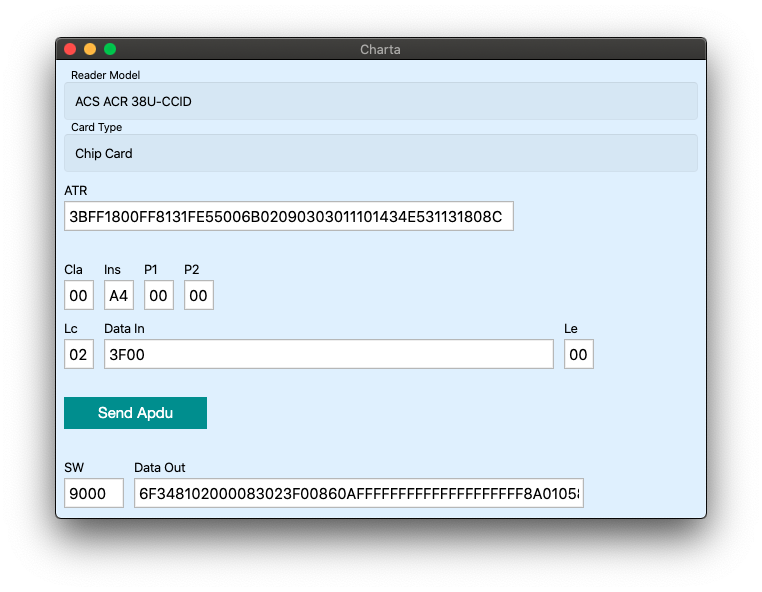
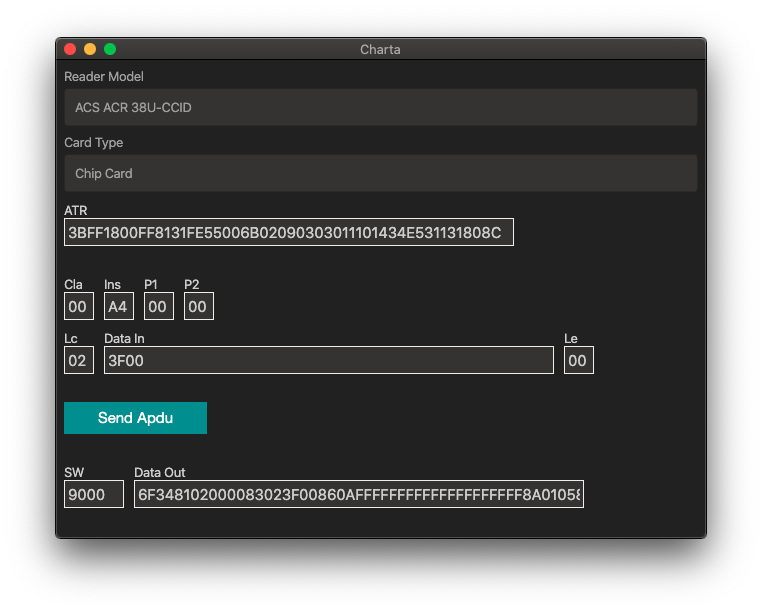
dark mode implemented :)

diff --git a/src/react-engine/chartaui/CustomTextField.tsx b/src/react-engine/chartaui/CustomTextField.tsx
@@ -1,12 +1,10 @@
 import CSS from "csstype";
 import React from "react";
-import { TextInput } from "react-desktop/macOs";
-
-const textFieldStyle: CSS.Properties = {
-    display: "inline-block",
-};
+import { Text, TextInput } from "react-desktop/macOs";
 
 interface ITextFieldProps {
+    background?: string;
+    color?: string;
     label: string;
     text?: string;
     charsLength: number;
@@ -18,26 +16,38 @@ interface ITextFieldProps {
 }
 
 export const CustomTextField: React.FC<ITextFieldProps> = (props: ITextFieldProps) => {
+
+    const divFieldStyle: CSS.Properties = {
+        display: "inline-block",
+    };
+
+    const textFieldStyle: CSS.Properties = {
+        background: props.background ? props.background : "#3b3a39",
+        border: "0px solid darkgray",
+        color: props.color ? props.color : "lightgray",
+        display: "inline-block",
+    };
+
     return (
-        <div style={textFieldStyle}>
-            <TextInput
+            <div style={divFieldStyle}>
+                <Text color={props.color ? props.color : "lightgray"} marginTop="10px">{props.label}</Text>
+                <TextInput
+                style={textFieldStyle}
                 width={props.charsLength * 15}
                 size="15"
                 maxLength={props.maxLength === undefined ? 2 : props.maxLength}
-                label={props.label}
+                // label={props.label}
                 // rounded="5"
                 // placeholder="My Input"
                 value={props.text !== undefined ? props.text : ""}
                 // onChange={this.handleChange}
                 marginLeft="0"
-                marginTop="10"
                 marginRight="10"
                 onChange={props.onChangeEvent}
                 name={props.fieldName}
                 readOnly={props.readOnly === undefined ? false : true}
                 onBlur={props.onBlurEvent}
             />
-        </div>
-
+            </div>
     );
 };

diff --git a/src/react-engine/chartaui/CustomBox.tsx b/src/react-engine/chartaui/CustomBox.tsx
@@ -1,16 +1,25 @@
+import CSS from "csstype";
 import React from "react";
 import { Box, Text } from "react-desktop/macOs";
 
 interface IBoxProps {
     title: string;
     text?: string;
+    color?: string;
+    backgroundColor?: string;
 }
 
 export const CustomBox: React.FC<IBoxProps> = (props: IBoxProps) => {
+
+    const boxStyle: CSS.Properties = {
+        color: props.color,
+    };
+
     return (
         <div>
-            <Box label={props.title} padding="10px 10px">
-                <Text>{props.text === undefined || props.text === null ? "" : props.text}</Text>
+            <Text style={boxStyle} marginTop="8px" marginBottom="4px">{props.title}</Text>
+            <Box padding="10px 10px" background={props.backgroundColor} style={boxStyle}>
+                <Text style={boxStyle}>{props.text === undefined || props.text === null ? "" : props.text}</Text>
             </Box>
         </div>
     );

diff --git a/src/react-engine/CardPanel.tsx b/src/react-engine/CardPanel.tsx
@@ -8,7 +8,7 @@ export class CardPanel extends React.Component<ICardManagerStatus, ICardInfo> {
     public render() {
         return (
             <div hidden={!this.props.isCardInserted}>
-                <CustomBox title="Card Type" text={this.props.isCardInserted ? this.props.cardInfo.cardType : ""}/>
+                <CustomBox title="Card Type" text={this.props.isCardInserted ? this.props.cardInfo.cardType : ""} backgroundColor="#3b3a39" color="darkgray"/>
                 <CustomTextField label="ATR" readOnly={true} text={this.props.isCardInserted ? this.props.cardInfo.atr.toUpperCase() : ""} charsLength={30}/>
             </div>
         );

diff --git a/src/react-engine/ApduForm.tsx b/src/react-engine/ApduForm.tsx
@@ -294,7 +294,7 @@ export class ApduForm extends React.Component<IApduFormProps, IApduFormState> {
         const apduToUpdate: IApduFormState = { ...this.state };
         apduToUpdate.apduResult.sw = readOK ? "9000" : "Error";
         if (readOK && bufferResult && bufferResult.length > 0)
-            apduToUpdate.apduResult.dataOut = Utilities.bytesToHexString(bufferResult);
+            apduToUpdate.apduResult.dataOut = Utilities.bytesToHexString(bufferResult).toUpperCase();
 
         this.setState(apduToUpdate);
     }

diff --git a/src/react-engine/ReaderPanel.tsx b/src/react-engine/ReaderPanel.tsx
@@ -9,7 +9,7 @@ export class ReaderPanel extends React.Component<IReaderProps> {
 
     public render() {
         return (
-            <CustomBox title="Reader Model" text={this.props.name}/>
+            <CustomBox title="Reader Model" text={this.props.name} backgroundColor="#3b3a39" color="darkgray"/>
         );
     }
 }

diff --git a/src/index.html b/src/index.html
@@ -4,7 +4,7 @@
     <meta charset="UTF-8">
     <title>Charta</title>
   </head>
-  <body style="background-color: #e6f2ff">
+  <body style="background-color: #242424">
     <!--
     <h1>Hello World!</h1>
     We are using Node.js <span id="node-version"></span>,

diff --git a/src/main.ts b/src/main.ts
@@ -8,7 +8,7 @@ function createWindow() {
   // Create the browser window.
   mainWindow = new BrowserWindow({
     fullscreenable: false,
-    height: 480,
+    height: 500,
     // titleBarStyle: "hidden",
     resizable: false,
     webPreferences: {
